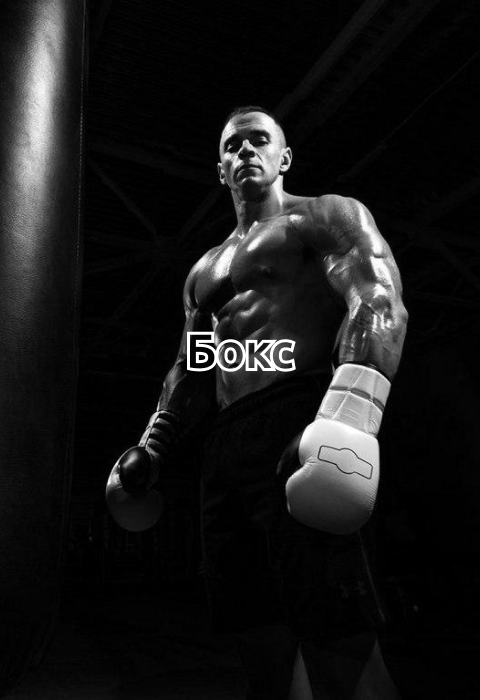
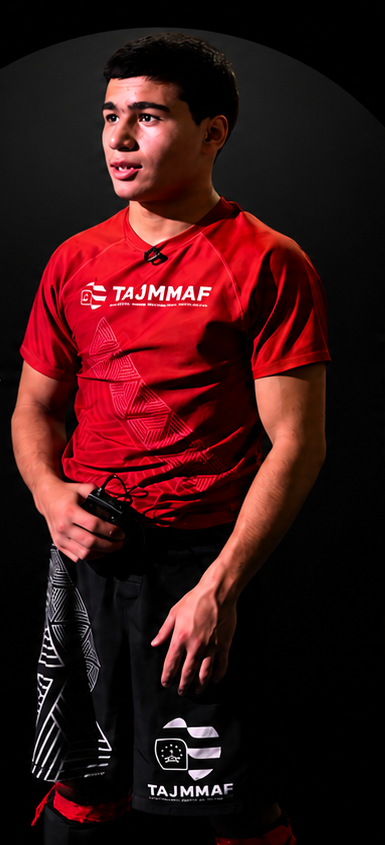
feat: hero — real fighter photo (cut from Figma), edge mask, bottom scrim, responsive tuning

diff --git a/src/components/sections/Hero.jsx b/src/components/sections/Hero.jsx
@@ -3,14 +3,22 @@ import fighter from '../../assets/images/hero-fighter.png';
 
 export default function Hero() {
   return (
-    <section className="relative flex min-h-[560px] flex-col overflow-hidden bg-dark-bg sm:min-h-[680px] md:min-h-[880px]">
-      <div className="pointer-events-none absolute left-1/2 top-[6%] h-[560px] w-[560px] -translate-x-1/2 rounded-full bg-[radial-gradient(circle,#2b2b30_0%,transparent_70%)] md:h-[820px] md:w-[820px]" />
+    <section className="relative flex min-h-[620px] flex-col overflow-hidden bg-dark-bg sm:min-h-[760px] md:min-h-[880px]">
+      <div className="pointer-events-none absolute left-1/2 top-[4%] h-[520px] w-[520px] -translate-x-1/2 rounded-full bg-[radial-gradient(circle,#26262b_0%,transparent_70%)] md:h-[780px] md:w-[780px]" />
 
       <img
         src={fighter}
         alt="Франсимара Бодао Барросо"
-        className="pointer-events-none absolute bottom-0 left-1/2 h-[78%] max-w-none -translate-x-1/2 object-contain object-bottom grayscale md:h-[92%]"
+        style={{
+          WebkitMaskImage:
+            'radial-gradient(ellipse 68% 80% at 50% 45%, #000 40%, transparent 82%)',
+          maskImage:
+            'radial-gradient(ellipse 68% 80% at 50% 45%, #000 40%, transparent 82%)',
+        }}
+        className="pointer-events-none absolute bottom-0 left-1/2 h-[80%] max-w-none -translate-x-1/2 object-contain object-bottom md:h-[96%]"
       />
+
+      <div className="pointer-events-none absolute inset-x-0 bottom-0 h-1/3 bg-gradient-to-t from-dark-bg to-transparent" />
 
       <div className="relative mx-auto flex w-full max-w-7xl flex-1 flex-col px-5 py-10 md:px-8 md:py-12">
         <p className="max-w-[320px] text-base font-bold leading-tight text-white md:text-xl">
